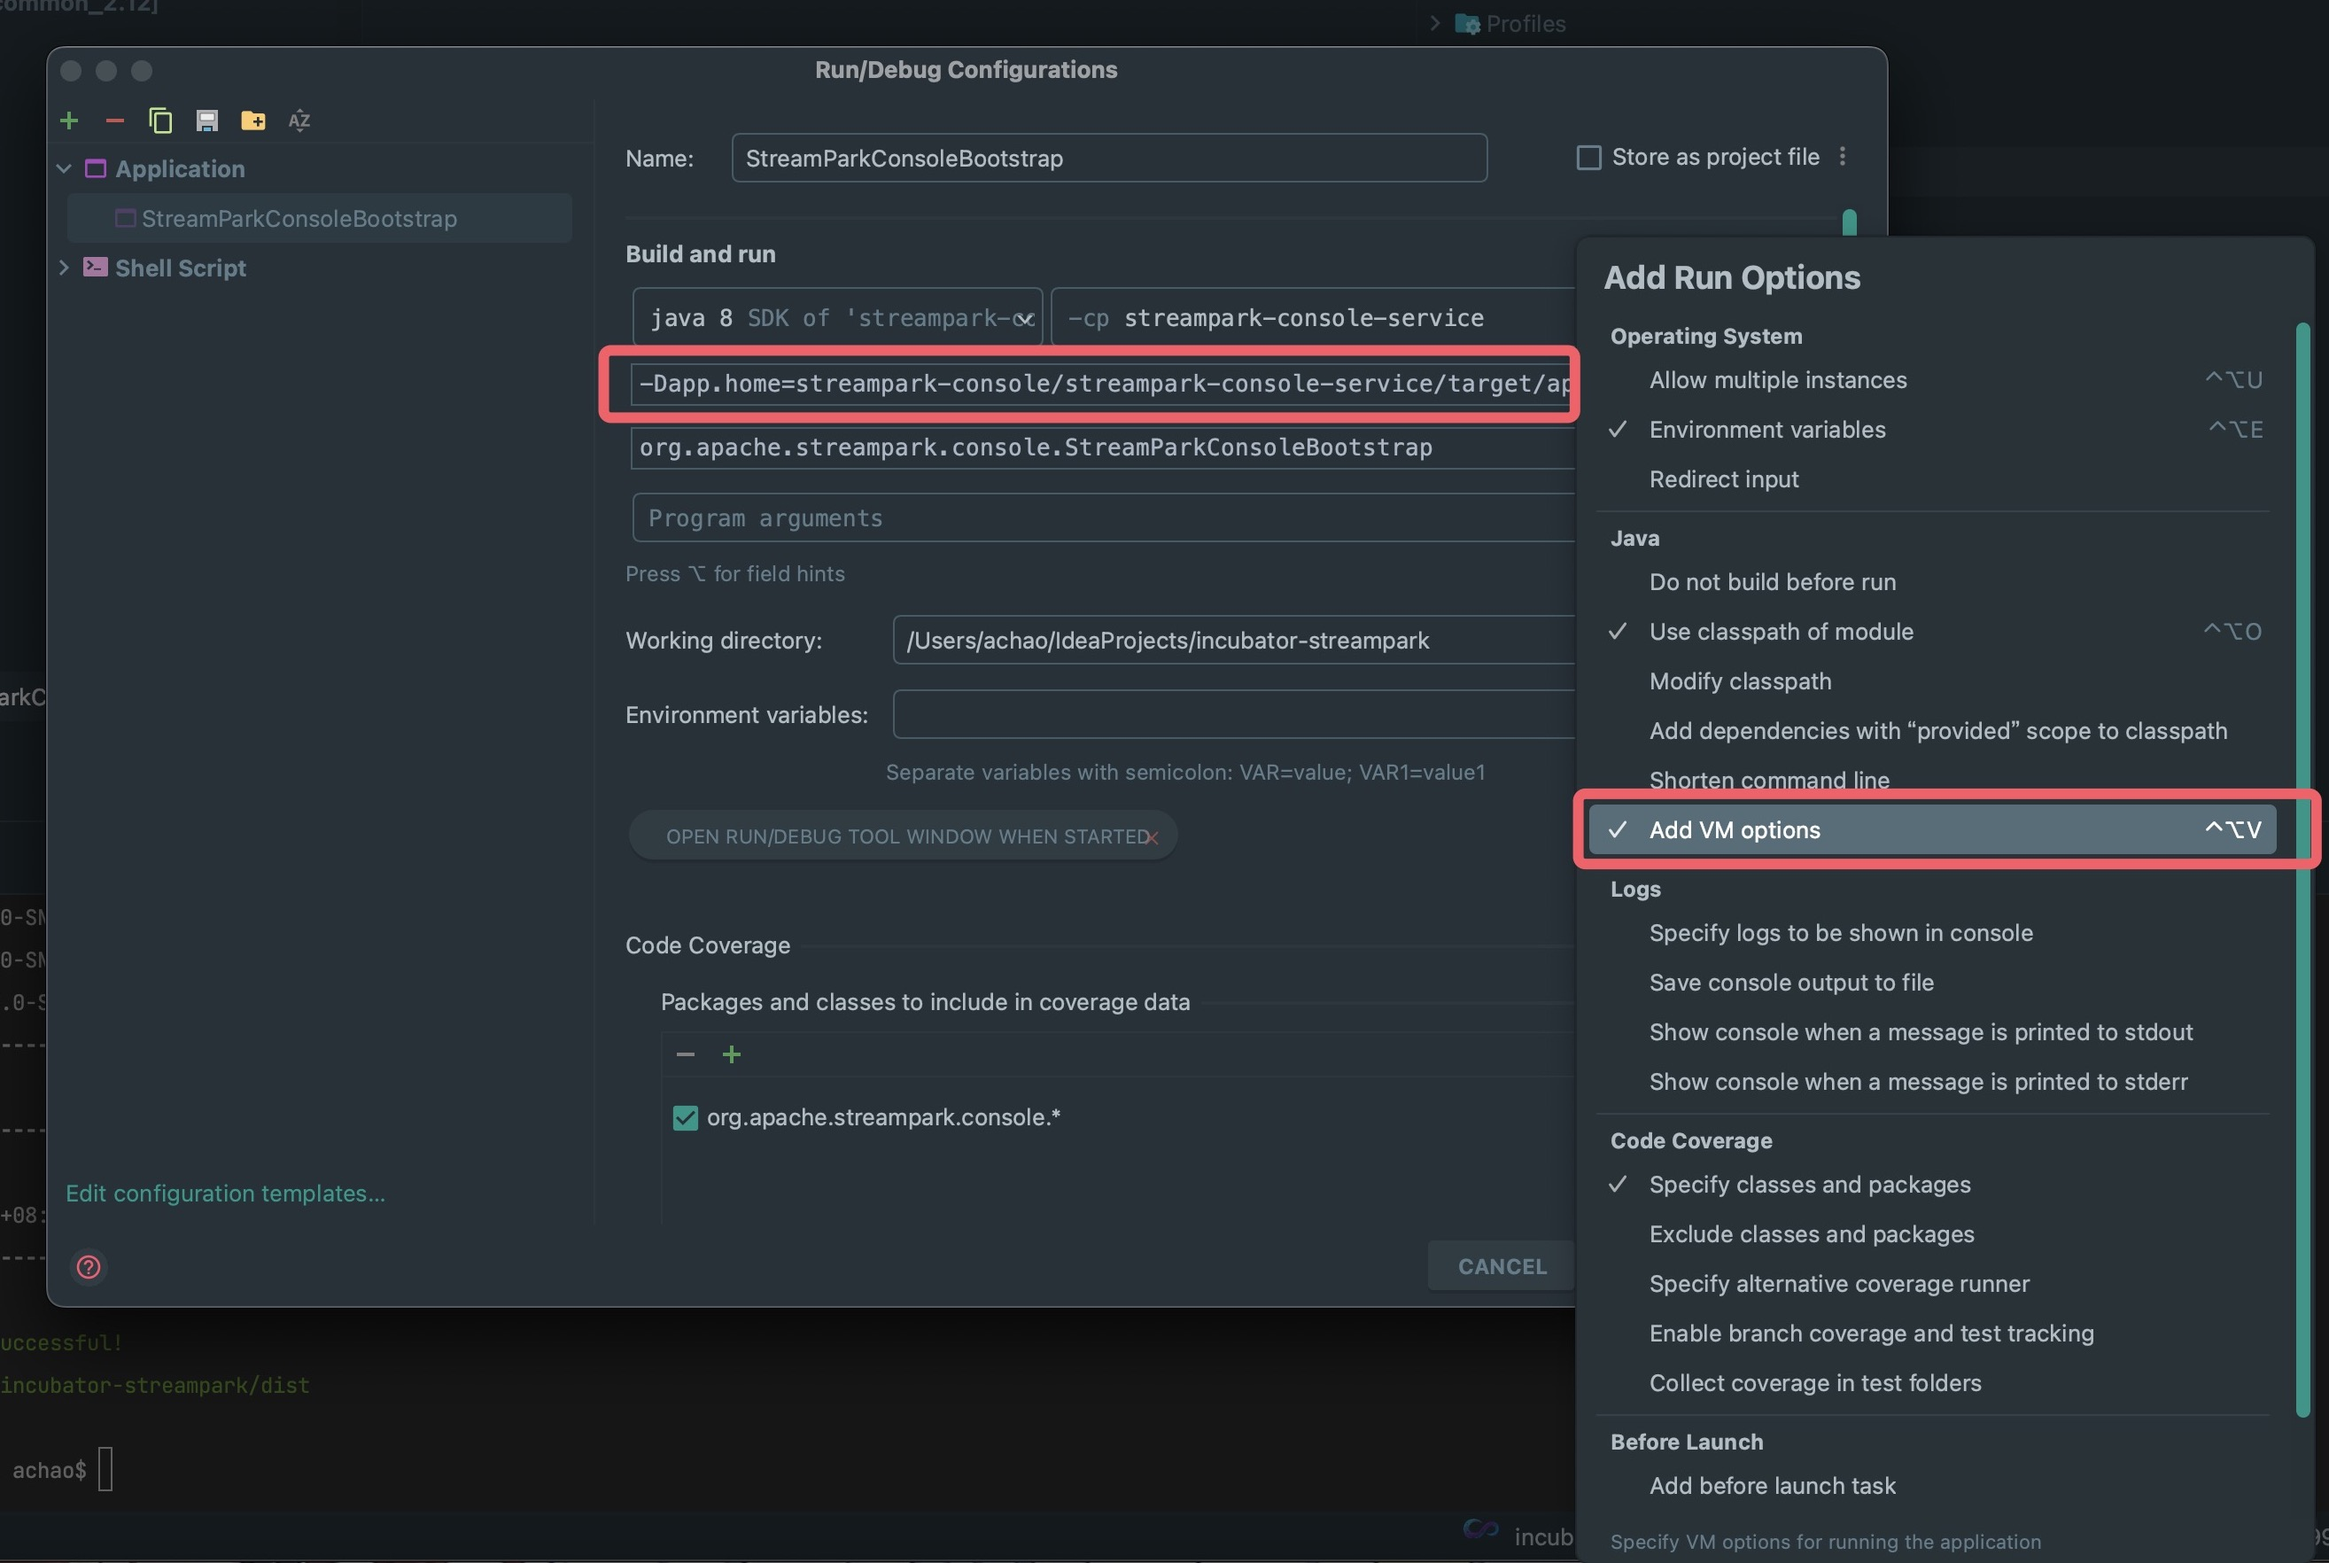
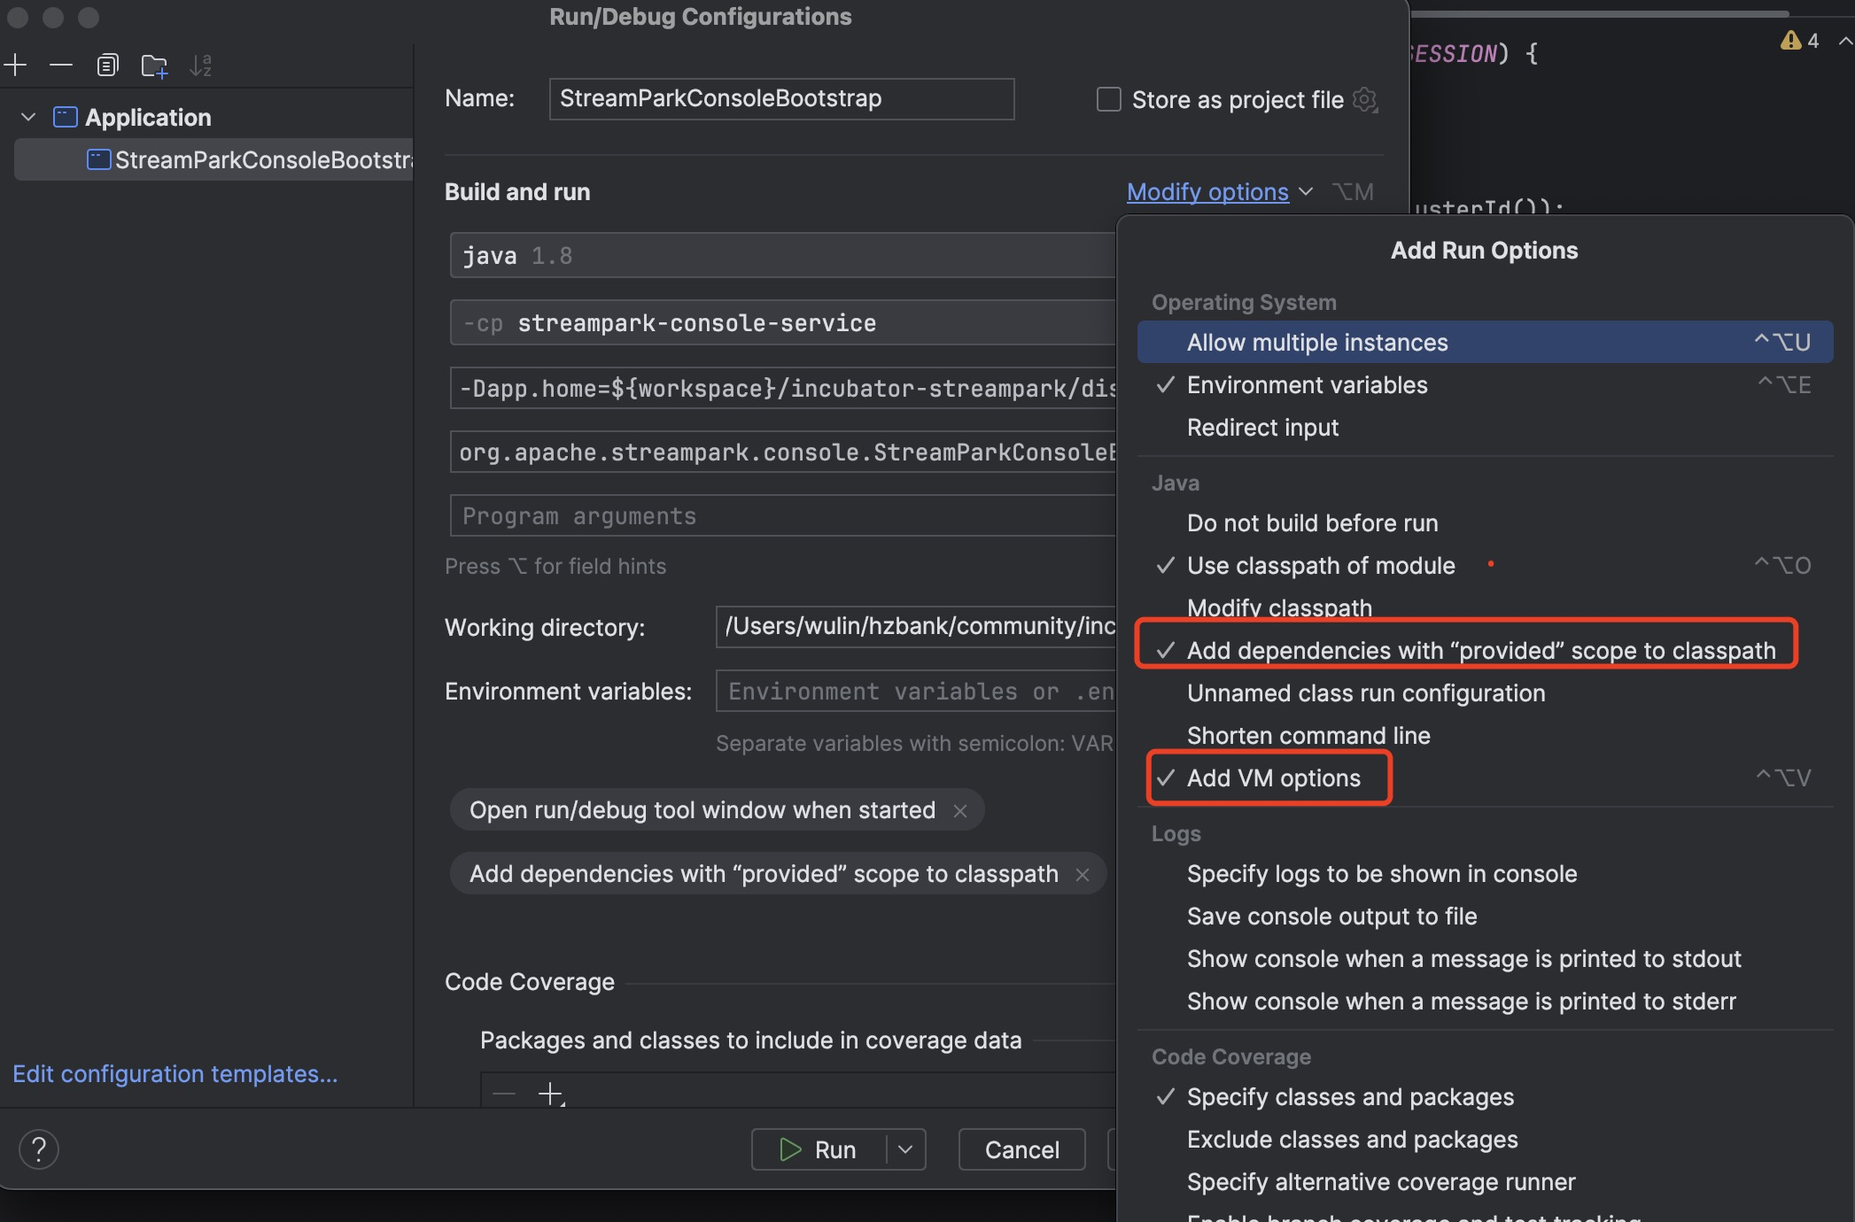
Add provided dependency (#372)
* Add provided dependency

* add options in en doc for development

* Update 3-development.md

---------

diff --git a/docs/user-guide/3-development.md b/docs/user-guide/3-development.md
@@ -50,7 +50,7 @@ Modify the launch configuration
 
 ![Streampark Modify Run Configuration](/doc/image/streampark_modify_run_configuration.jpg)
 
-Check `Add VM options`, and input the parameter `-Dapp.home=$path`, where `$path` is the path we just copied.
+Check `Add VM options` and `Add dependencies with "provided" scope to classpath`, and input the parameter `-Dapp.home=$path`, where `$path` is the path we just copied.
 
 ```bash
 -Dapp.home=${workspace}/incubator-streampark/dist/apache-streampark-2.2.0-incubating-bin

diff --git a/i18n/zh-CN/docusaurus-plugin-content-docs/current/user-guide/3-development.md b/i18n/zh-CN/docusaurus-plugin-content-docs/current/user-guide/3-development.md
@@ -50,7 +50,7 @@ tar -zxvf apache-streampark-2.2.0-incubating-bin.tar.gz
 
 ![Streampark Modify Run Configuration](/doc/image/streampark_modify_run_configuration.jpg)
 
-勾选`Add VM options`，填写参数`-Dapp.home=$path`，`$path`是我们刚刚复制的路径
+勾选 `Add VM options` 和 `Add dependencies with "provided" scope to classpath`，填写参数 `-Dapp.home=$path`，`$path` 是我们刚刚复制的路径
 
 ```bash
 -Dapp.home=${workspace}/incubator-streampark/dist/apache-streampark-2.2.0-incubating-bin
